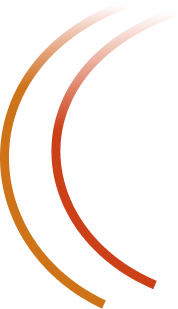
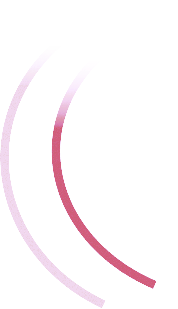
Completed

Changed region(s): [[0.0, 0.0291, 0.618, 1.0], [0.2809, 0.0583, 0.8989, 0.932]]

diff --git a/src/components/Reasons/Reasons.jsx b/src/components/Reasons/Reasons.jsx
@@ -6,7 +6,7 @@ import image4 from "../../assets/image4.png"
 import nb from "../../assets/nb.png"
 import adidas from "../../assets/adidas.png"
 import nick from "../../assets/nike.png"
-import tick from "../../assets/tick.png"
+import whiteTick from "../../assets/whiteTick.png"
 const Reasons = () => {
   return (
     <div className="Reasons">
@@ -24,19 +24,19 @@ const Reasons = () => {
           </div>
           <div className="details-r">
             <div>
-              <img src={tick} alt=""></img>
+              <img src={whiteTick} alt=""></img>
               <span>FREE PROGRAM FOR NEW MEMBER</span>
             </div>
             <div>
-              <img src={tick} alt=""></img>
+              <img src={whiteTick} alt=""></img>
               <span>OVER 160+ EXPERTS COACHS</span>
             </div>
             <div>
-              <img src={tick} alt=""></img>
+              <img src={whiteTick} alt=""></img>
               <span>TRAIN AND FASTER THAN BEFORE</span>
             </div>
             <div>
-              <img src={tick} alt=""></img>
+              <img src={whiteTick} alt=""></img>
               <span>RELIABLE PARTNERS</span>
             </div>
           </div>

diff --git a/public/index.html b/public/index.html
@@ -2,15 +2,12 @@
 <html lang="en">
   <head>
     <meta charset="utf-8" />
-    <link rel="icon" href="%PUBLIC_URL%/favicon.ico" />
     <meta name="viewport" content="width=device-width, initial-scale=1" />
     <meta name="theme-color" content="#000000" />
     <meta
       name="description"
       content="Web site created using create-react-app"
     />
-    <link rel="apple-touch-icon" href="%PUBLIC_URL%/logo192.png" />
-    <link rel="manifest" href="%PUBLIC_URL%/manifest.json" />
     <link rel="preconnect" href="https://fonts.googleapis.com" />
     <link rel="preconnect" href="https://fonts.gstatic.com" crossorigin />
     <link
@@ -22,7 +19,7 @@
         font-family: "Inter", sans-serif;
       }
     </style>
-    <title>React App</title>
+    <title>Fitness-Flow</title>
   </head>
   <body>
     <noscript>You need to enable JavaScript to run this app.</noscript>

diff --git a/src/components/Hero/Hero.css b/src/components/Hero/Hero.css
@@ -28,7 +28,7 @@
 }
 .the-best-ads>div{
     position:absolute;
-    background-color: var(--orange);
+    background-color: var(--pink);
     width:5.4rem;
     height:80%;
     left:8px;
@@ -75,19 +75,19 @@
 }
 .hero-buttons>:nth-child(1){
     color:white;
-    background-color: var(--orange);
+    background-color: var(--pink);
     width:8rem
 }
 .hero-buttons>:nth-child(2){
     color:white;
     background-color: transparent;
     width:8rem;
-    border: 2px solid var(--orange);
+    border: 2px solid var(--pink);
 }
 .right-h{
     flex:1;
     position:relative;
-    background-color: var(--orange);
+    background-color: var(--pink);
 }
 .right-h>.btn{
     position: absolute;
@@ -129,6 +129,7 @@
     top:4rem;
     z-index: -1;
     width:15rem;
+    fill:aqua;
 }
 .calories{
     display:flex;

diff --git a/src/components/Join/Join.jsx b/src/components/Join/Join.jsx
@@ -11,6 +11,8 @@ const Join = () => {
             })
             .then(
             () => {
+                window.alert("Successfully mail sent")
+                window.location.reload();
                 console.log('SUCCESS!');
             },
             (error) => {
@@ -34,7 +36,7 @@ const Join = () => {
         <div className='right-j'>
             <form  ref={form} onSubmit={sendEmail} className='email-container'>
                 <input type="email" name="user_email" placeholder="Enter your Email address"></input>
-                <button className='btn btn-j' style={{backgroundColor:"orange"}}>Join Now</button>
+                <button className='btn btn-j' style={{backgroundColor:"#f41550"}}>Join Now</button>
             </form>
         </div>
     </div>

diff --git a/src/components/Footer/Footer.jsx b/src/components/Footer/Footer.jsx
@@ -3,7 +3,7 @@ import "./footer.css"
 import Github from "../../assets/github.png"
 import Instagram from "../../assets/instagram.png"
 import Linkedin from "../../assets/linkedin.png"
-import Logo from "../../assets/logo.png"
+import FitnessFlowlogo from "../../assets/FitnessFlowlogo.png"
 const Footer = () => {
   return (
     <div className='footer-container'>
@@ -15,7 +15,7 @@ const Footer = () => {
                 <img src={Linkedin} alt='linkedin'/>
             </div>
             <div className='logo-f'>
-                <img src={Logo} alt="Logo"/>
+                <img src={FitnessFlowlogo} alt="Logo"/>
             </div>
         </div>
         <div className='blur footer-blur-1'></div>

diff --git a/src/components/Testimonials/testimonials.css b/src/components/Testimonials/testimonials.css
@@ -12,7 +12,7 @@
     color:white;
 }
 .left-t>:nth-child(1){
-    color:var(--orange);
+    color:var(--pink);
     font-weight:bold;
 }
 .left-t>:nth-child(2),.left-t>:nth-child(3){
@@ -41,7 +41,7 @@
     position:absolute;
     width:17rem;
     height:20rem;
-    border:2px solid orange;
+    border:2px solid #f41550;
     background-color: transparent;
     right:9rem;
     top:0.9rem;
@@ -50,7 +50,7 @@
     position:absolute;
     width:17rem;
     height:20rem;
-    background-color: var(--orange);
+    background-color: var(--pink);
     right:7rem;
     top:3rem;
 }

diff --git a/src/components/Header/Header.jsx b/src/components/Header/Header.jsx
@@ -1,5 +1,5 @@
 import {useState} from 'react'
-import Logo from "../../assets/logo.png"
+import FitnessFlow from "../../assets/FitnessFlowlogo.png"
 import Bars from "../../assets/bars.png"
 import {Link} from "react-scroll"
 import "./Header.css"
@@ -8,7 +8,7 @@ const Header = () => {
   const [menu,setMenu]=useState(false)
   return (
     <div className='Header'>
-      <img className="logo" src={Logo} alt="Logo"
+      <img className="logo" src={FitnessFlow} alt="Logo"
       />
       {(menu===false && mobile===true)? (
         <img src={Bars} alt="bar" 

diff --git a/src/App.css b/src/App.css
@@ -2,7 +2,8 @@
 :root {
     --lightgray: #D9D9D9;
     --gray: #9c9c9c;
-    --orange: #f48915;
+    /* --orange: #f48915; */
+    --pink: #f41550;
     --darkGrey: #464D53;
     --caloryCard: #656565;
     --planCard: linear-gradient(210.41deg, #fa5042 1.14%, #ffa739 100.75%);
@@ -42,6 +43,7 @@
 }
 .blur{
     background-color: rgba(253,120,43,0.69);
+    background-color: #f41550;
     position: absolute;
     border-radius: 50%;
     filter:blur(150px);

diff --git a/src/components/Plans/plans.css b/src/components/Plans/plans.css
@@ -35,11 +35,11 @@
     width:15rem;
 }
 .plan:nth-child(2){
-    background-color: var(--orange);
+    background-color: var(--pink);
     transform: scale(1.1);
 }
 .plan>svg{
-    fill:var(--orange);
+    fill:var(--pink);
     width:2rem;
     height:2rem;
 }
@@ -71,7 +71,7 @@
     fill: white;
 }
 .plans>:nth-child(2)>button{
-    color:orange
+    color:#f41550;
 }
 @media screen and (max-width:789px){
     .plans{

diff --git a/src/components/Programs/Programs.css b/src/components/Programs/Programs.css
@@ -28,7 +28,7 @@
     justify-content: space-between;
 }
 .category:hover{
-    background-color: var(--orange);
+    background-color: var(--pink);
     cursor: pointer;
 }
 .category>:nth-child(1){

diff --git a/src/components/Header/Header.css b/src/components/Header/Header.css
@@ -13,7 +13,7 @@
     color:white;
 }
 .header-menu>li:hover{
-    color:var(--orange);
+    color:var(--pink);
     cursor:pointer;
 }
 @media screen and (max-width:768px) {

diff --git a/src/components/Join/join.css b/src/components/Join/join.css
@@ -53,7 +53,4 @@
     .left-j>div>span{
         font-size: x-large;
     }
-    .right-j{
-        
-    }
 }
